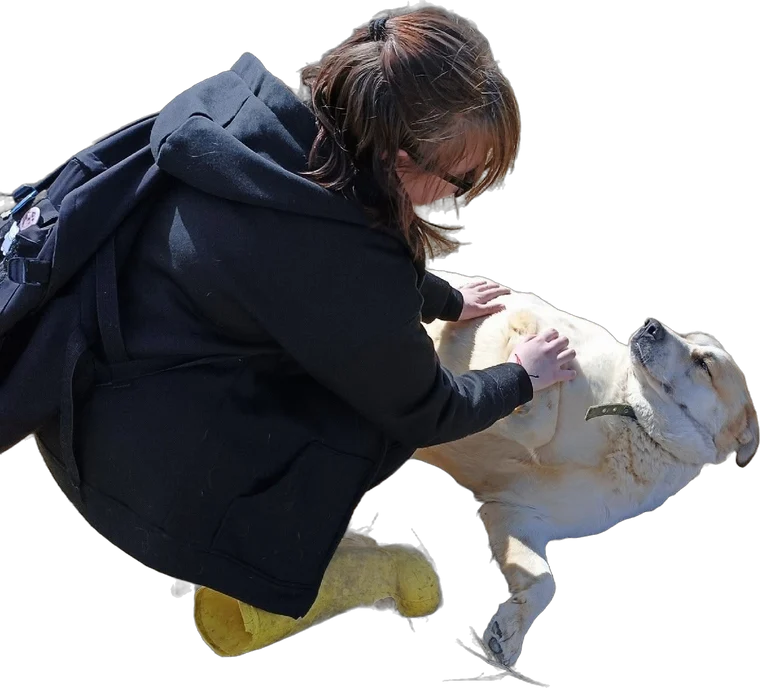
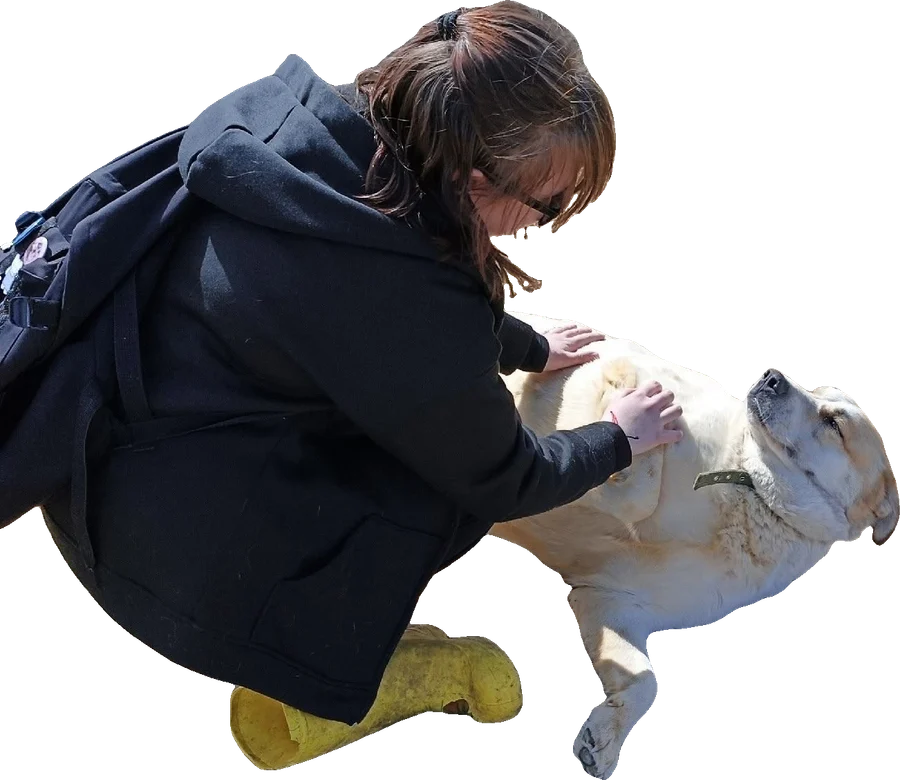
feat(campaigns): enlarge silhouettes and extend dot patterns
Extend dot patterns across the hero and closing fields with a clear
center for typography. Enlarge cutouts and replace the isolated dog with
two fully visible volunteers.

Refine Kapral and volunteer masks, separate the walking group from the
pet and enlarge the closing composition.

diff --git a/components/campaigns/campaigns.css b/components/campaigns/campaigns.css
@@ -199,12 +199,26 @@
   text-align: center;
 }
 
-/* Капрал, главная группа: справа внизу, лапами через шов. Круг чуть правее
+/* Сетка точек накрывает всё поле, а не стоит блоком у одной вырезки. Блоком
+   она читалась заплаткой: квадрат точек посреди поля не держит ничего. По
+   краям гуще, к середине сходит на нет, иначе спорит с типографикой. */
+.camp-cover::before,
+.camp-call::before {
+  position: absolute;
+  z-index: 0;
+  inset: 0;
+  background-image: radial-gradient(circle, var(--dots, rgba(168, 84, 6, 0.3)) 1.8px, transparent 1.9px);
+  background-size: clamp(24px, 2.2vw, 34px) clamp(24px, 2.2vw, 34px);
+  content: "";
+  mask-image: radial-gradient(ellipse 58% 54% at 50% 50%, transparent 40%, #000 100%);
+  pointer-events: none;
+}
+
 /* Капрал: справа внизу, на круге, лапами через шов. */
 .camp-cover__unit--lead {
-  right: 2%;
+  right: 4%;
   bottom: calc(-1 * var(--c-bleed));
-  width: clamp(250px, 27vw, 390px);
+  width: clamp(270px, 31vw, 440px);
 }
 
 .camp-cover__unit--lead i {
@@ -218,11 +232,11 @@
 /* Волонтёр треплет собаку по животу: слева, на моховом круге. Вырезка
    широкая, поэтому и круг под ней шире. */
 .camp-cover__unit--care {
-  --ratio: 760 / 688;
+  --ratio: 900 / 780;
 
-  top: 13%;
-  left: 2%;
-  width: clamp(200px, 22vw, 320px);
+  top: 8%;
+  left: 1%;
+  width: clamp(240px, 27vw, 390px);
 }
 
 .camp-cover__unit--care i {
@@ -233,33 +247,27 @@
   background: rgba(111, 115, 85, 0.42);
 }
 
-/* Пёс встаёт лапами на руку: слева внизу, высокая вырезка на точках. */
-.camp-cover__unit--greet {
-  --ratio: 620 / 1119;
+/* Двое волонтёров на скамейке: слева внизу. Своей фигуры у них нет, точки
+   теперь накрывают всё поле. */
+.camp-cover__unit--bench {
+  --ratio: 780 / 1034;
 
-  bottom: 9%;
-  left: 11%;
-  width: clamp(96px, 11vw, 165px);
-}
-
-.camp-cover__unit--greet i {
-  top: 10%;
-  left: -28%;
-  width: 88%;
-  aspect-ratio: 1;
-  background-image: radial-gradient(circle, rgba(168, 84, 6, 0.34) 1.7px, transparent 1.8px);
-  background-size: 19px 19px;
+  bottom: 2%;
+  left: 5%;
+  width: clamp(140px, 16vw, 235px);
 }
 
 /* Выход на прогулку: строй людей с собаками низкой полосой справа вверху.
    Своей фигуры у него нет: строй сам длинная фигура, и круг за ним читался
    бы пятном. */
+/* Строй стоит выше подопечного и уже его: на одной высоте они наезжали
+   друг на друга, и люди читались фоном за собакой. */
 .camp-cover__unit--walk {
   --ratio: 1200 / 676;
 
-  top: 13%;
-  right: 3%;
-  width: clamp(200px, 24vw, 350px);
+  top: 7%;
+  right: -2%;
+  width: clamp(220px, 27vw, 410px);
 }
 
 
@@ -379,7 +387,7 @@
     width: clamp(190px, 22vw, 280px);
   }
 
-  .camp-cover__unit--greet {
+  .camp-cover__unit--bench {
     display: none;
   }
 }
@@ -1385,6 +1393,8 @@
 ------------------------------------------------------------------------ */
 
 .camp-call {
+  --dots: rgba(28, 28, 28, 0.22);
+
   position: relative;
   z-index: 1;
   display: grid;
@@ -1402,9 +1412,9 @@
    её пропорции, 1400 на 1078. */
 .camp-call__unit {
   position: absolute;
-  top: -9%;
-  right: 8%;
-  width: clamp(230px, 26vw, 370px);
+  top: -12%;
+  right: 4%;
+  width: clamp(280px, 36vw, 540px);
   aspect-ratio: 1;
 }
 
@@ -1436,10 +1446,10 @@
 .camp-call__disc {
   position: absolute;
   z-index: 1;
-  top: 20%;
-  left: 8%;
+  top: 16%;
+  left: 6%;
   display: block;
-  width: 72%;
+  width: 78%;
   aspect-ratio: 1;
   border-radius: 50%;
   background: rgba(250, 245, 236, 0.72);
@@ -1455,18 +1465,9 @@
   }
 }
 
-/* Точки уходят вправо за группу и вниз: они держат пустой нижний угол поля,
-   который иначе остаётся голым янтарём. */
+/* Своих точек у группы больше нет: сетка накрывает всё поле секции. */
 .camp-call__dots {
-  position: absolute;
-  z-index: 0;
-  top: 8%;
-  right: -18%;
-  display: block;
-  width: 48%;
-  aspect-ratio: 3 / 4;
-  background-image: radial-gradient(circle, rgba(28, 28, 28, 0.26) 1.7px, transparent 1.8px);
-  background-size: 21px 21px;
+  display: none;
 }
 
 /* Ширина явная: в сетке блок с auto-полями ужимается до содержимого и

diff --git a/components/campaigns/campaign-cover.tsx b/components/campaigns/campaign-cover.tsx
@@ -18,7 +18,7 @@ import { useLenis } from "@/components/ui/smooth-scroll";
  * По краям поля группы сопоставимого веса, и каждая уходит за свою кромку.
  *
  * На поле не только подопечные, но и люди: волонтёр, треплющий собаку по
- * животу, пёс, встающий лапами на руку, и общий выход на прогулку. Это
+ * животу, двое на скамейке и общий выход на прогулку. Это
  * настоящие кадры приюта, вырезанные по контуру через rembg
  * (`public/campaigns/people`, разбор в docs/campaigns-scroll-plan.md).
  *
@@ -85,13 +85,13 @@ const UNITS = [
     delay: 0.24,
   },
   {
-    src: "/campaigns/people/greet.webp",
-    alt: "Пёс встаёт лапами на руку волонтёра",
-    mod: "greet",
+    src: "/campaigns/people/bench.webp",
+    alt: "Волонтёры отдыхают на скамейке в приюте",
+    mod: "bench",
     small: true,
-    shape: "dots",
-    drift: -170,
-    rotate: 4,
+    shape: "none",
+    drift: -150,
+    rotate: 0,
     delay: 0.38,
   },
   {
